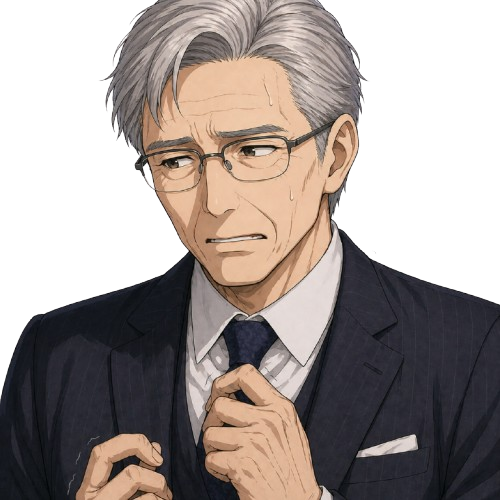
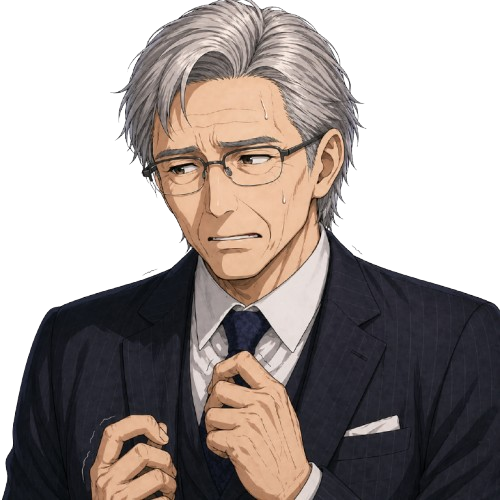
Fix Ch3 generator output, add Ch3 characters to settings, add Ch2 story replay, push chara_01b
- onEventKanteGenTap(): Ch3ジェネレーターがKANTEITA_CHAINアイテムを生成するよう修正（旧: EVENT_CHAINアイテムが出力されていた）
- discoverKanteItem() / showNaviHintForKanteGen() を追加
- handleAnyGenTap() に isKanteGen 分岐を追加
- CHARACTERS配列に第三章7名追加（idx 11-17）
- renderCharacters() に第三章ラベル・ch3Unlocked条件を追加
- CH2_SCENE_LIST定数・renderCh2ReplayList()を追加
- index.html story-ch2-block に replay-wrap を追加
- renderStoryScreen() ch2Complete時にリプレイ表示
- img/Chapter1/Chara/image_merge_order_chara_01b.png（ミユ感動シーン）を追加
- img/Chapter3/chara/image_merge_order_chara_18a.png を更新

diff --git a/game.js b/game.js
@@ -1439,6 +1439,13 @@ function discoverSeizoItem(stage) {
   updateCatalogBadge();
 }
 
+// 第三章マージアイテムを発見（初回のみ）
+function discoverKanteItem(stage) {
+  if (eventState.kanteDiscovered[stage]) return;
+  eventState.kanteDiscovered[stage] = true;
+  updateCatalogBadge();
+}
+
 // ジェネレーターのレベルを発見（初回のみ）
 // genType: 'ch1' / 'ch2', level: 0始まり
 function discoverGen(genType, level) {
@@ -1860,16 +1867,26 @@ const CHARACTERS = [
   { img: 'img/Chapter2/Chara/image_merge_order_chara_08.png',  name: 'ユウ',     age: '10歳', desc: 'リナの子供' },
   { img: 'img/Chapter2/Chara/image_merge_order_chara_09a.png',  name: 'ハルト',   age: '20歳', desc: '大学生' },
   { img: 'img/Chapter2/Chara/image_merge_order_chara_10.png',  name: 'タツオ',   age: '44歳', desc: '警備員' },
+  { img: 'img/Chapter3/chara/image_merge_order_chara_15.png', name: 'フミコ',   age: '71歳', desc: '旅館女将・依頼人' },
+  { img: 'img/Chapter3/chara/image_merge_order_chara_16.png', name: 'コウジ',   age: '47歳', desc: '旅館の跡取り' },
+  { img: 'img/Chapter3/chara/image_merge_order_chara_17.png', name: 'サチコ',   age: '44歳', desc: '故人の長女' },
+  { img: 'img/Chapter3/chara/image_merge_order_chara_18.png', name: 'ノブオ',   age: '67歳', desc: '弁護士' },
+  { img: 'img/Chapter3/chara/image_merge_order_chara_19.png', name: 'ミドリ',   age: '52歳', desc: '旅館の番頭' },
+  { img: 'img/Chapter3/chara/image_merge_order_chara_20.png', name: 'リョウタ', age: '24歳', desc: '故人の孫' },
+  { img: 'img/Chapter3/chara/image_merge_order_chara_21.png', name: 'アキラ',   age: '27歳', desc: '故人の隠し子' },
 ];
 
 function renderCharacters() {
   const list = document.getElementById('characters-list');
   list.innerHTML = '';
   const ch2Unlocked = !!eventState.fireGenUnlocked;
+  const ch3Unlocked = !!eventState.kanteGenUnlocked;
   CHARACTERS.forEach((c, idx) => {
-    // 第二章キャラクター（idx 6〜）は製造機解放後のみ表示
-    if (idx >= 6 && !ch2Unlocked) return;
-    // 第一章・第二章ラベルを挿入
+    // 第二章キャラクター（idx 6〜10）は製造機解放後のみ表示
+    if (idx >= 6 && idx <= 10 && !ch2Unlocked) return;
+    // 第三章キャラクター（idx 11〜）は鑑定台解放後のみ表示
+    if (idx >= 11 && !ch3Unlocked) return;
+    // 章ラベルを挿入
     if (idx === 1) {
       const label = document.createElement('div');
       label.className = 'character-chapter-label';
@@ -1879,6 +1896,11 @@ function renderCharacters() {
       const label = document.createElement('div');
       label.className = 'character-chapter-label';
       label.textContent = '第二章';
+      list.appendChild(label);
+    } else if (idx === 11) {
+      const label = document.createElement('div');
+      label.className = 'character-chapter-label';
+      label.textContent = '第三章';
       list.appendChild(label);
     }
     const card = document.createElement('div');
@@ -4399,6 +4421,31 @@ const CH1_SCENE_LIST = [
   { id: 'scene17', label: 'Ep.16（完結）' },
 ];
 
+// 第二章シーン一覧（c2s01〜c2s20）
+const CH2_SCENE_LIST = [
+  { id: 'c2s01',  label: 'Ep.01' },
+  { id: 'c2s02',  label: 'Ep.02' },
+  { id: 'c2s03',  label: 'Ep.03' },
+  { id: 'c2s04',  label: 'Ep.04' },
+  { id: 'c2s05',  label: 'Ep.05' },
+  { id: 'c2s06',  label: 'Ep.06' },
+  { id: 'c2s07',  label: 'Ep.07' },
+  { id: 'c2s08',  label: 'Ep.08' },
+  { id: 'c2s09',  label: 'Ep.09' },
+  { id: 'c2s10',  label: 'Ep.10' },
+  { id: 'c2s11',  label: 'Ep.11' },
+  { id: 'c2s12',  label: 'Ep.12' },
+  { id: 'c2s13',  label: 'Ep.13' },
+  { id: 'c2s14',  label: 'Ep.14' },
+  { id: 'c2s15',  label: 'Ep.15' },
+  { id: 'c2s15b', label: 'Ep.15（後半）' },
+  { id: 'c2s16',  label: 'Ep.16' },
+  { id: 'c2s17',  label: 'Ep.17' },
+  { id: 'c2s18',  label: 'Ep.18' },
+  { id: 'c2s19',  label: 'Ep.19' },
+  { id: 'c2s20',  label: 'Ep.20（完結）' },
+];
+
 // 第三章シーン一覧（c3s01〜c3s26）
 const CH3_SCENE_LIST = [
   { id: 'c3s01', label: 'Ep.01' },
@@ -4523,6 +4570,8 @@ function renderStoryScreen() {
     if (ch2Complete) {
       ch2NextWrap.classList.add('hidden');
       ch2Complete_.classList.remove('hidden');
+      renderCh2ReplayList();
+      document.getElementById('story-ch2-replay-wrap')?.classList.remove('hidden');
     } else {
       ch2NextWrap.classList.remove('hidden');
       ch2Complete_.classList.add('hidden');
@@ -4594,6 +4643,31 @@ function renderCh1ReplayList() {
     const li = document.createElement('li');
     li.className = 'story-replay-item';
     li.textContent = `第一章 ${s.label}`;
+    li.addEventListener('click', () => {
+      closeStoryScreen();
+      openAdventureScene(s.id);
+    });
+    list.appendChild(li);
+  });
+  if (list.children.length === 0) {
+    const li = document.createElement('li');
+    li.className = 'story-replay-item';
+    li.style.color = '#888';
+    li.textContent = '（まだ読んだストーリーがありません）';
+    list.appendChild(li);
+  }
+}
+
+function renderCh2ReplayList() {
+  const list = document.getElementById('story-ch2-replay-list');
+  if (!list) return;
+  list.innerHTML = '';
+  const seen = state.seenScenes ?? [];
+  CH2_SCENE_LIST.forEach(s => {
+    if (!seen.includes(s.id)) return;
+    const li = document.createElement('li');
+    li.className = 'story-replay-item';
+    li.textContent = `第二章 ${s.label}`;
     li.addEventListener('click', () => {
       closeStoryScreen();
       openAdventureScene(s.id);
@@ -4813,6 +4887,16 @@ function showNaviHintForFireGen(item, persistent = false) {
     : '第二章ジェネレーターをマージしてLvアップ！もう一度タップでアイテム生成。';
   if (!isMax) updateFireNaviLvBtn(sLv);
   _showNaviHintPanel(text, !isMax, persistent);
+}
+
+function showNaviHintForKanteGen(item, persistent = false) {
+  const kLv = item.kanteLevel ?? 0;
+  const maxKLv = KANTEITA_GEN_IMAGES.length - 1;
+  const isMax = kLv >= maxKLv;
+  const text = isMax
+    ? '第三章ジェネレーターは最大Lvです。もう一度タップでアイテムを生成！'
+    : '第三章ジェネレーターをマージしてLvアップ！もう一度タップでアイテム生成。';
+  _showNaviHintPanel(text, false, persistent);
 }
 
 function showNaviHintForItem(item, persistent = false) {
@@ -5659,8 +5743,9 @@ function handleAnyGenTap(i) {
     }
     // 種類違い or レベル違いなら選択切替
     eventState.selectedCell = i;
-    if (isFireGen) showNaviHintForFireGen(item, true);
-    else           showNaviHintForGen(item.genLevel ?? 0, true);
+    if (isFireGen)          showNaviHintForFireGen(item, true);
+    else if (item.isKanteGen) showNaviHintForKanteGen(item, true);
+    else                    showNaviHintForGen(item.genLevel ?? 0, true);
     renderEventBoard();
     return;
   }
@@ -5668,12 +5753,14 @@ function handleAnyGenTap(i) {
   // 2タップ：選択中→生成（選択・ナビヒント維持） / 未選択→選択
   if (eventState.selectedCell === i) {
     // 選択はそのまま・ナビヒントも維持して生成
-    if (isFireGen) onEventFireGenTap(i);
-    else           onEventGenTap(i);
+    if (isFireGen)          onEventFireGenTap(i);
+    else if (item.isKanteGen) onEventKanteGenTap(i);
+    else                    onEventGenTap(i);
   } else {
     eventState.selectedCell = i;
-    if (isFireGen) showNaviHintForFireGen(item, true);
-    else           showNaviHintForGen(item.genLevel ?? 0, true);
+    if (isFireGen)          showNaviHintForFireGen(item, true);
+    else if (item.isKanteGen) showNaviHintForKanteGen(item, true);
+    else                    showNaviHintForGen(item.genLevel ?? 0, true);
     renderEventBoard();
   }
 }
@@ -6336,6 +6423,56 @@ function onEventFireGenTap(tappedCellIdx = null) {
     flyEventItemAnimation(animFrom !== -1 ? animFrom : slot, slot, imgSrc || chain.stages[finalStage - 1]);
   }
   const genShowIdx = animFrom !== -1 ? animFrom : (slot !== -1 ? slot : 0);
+  if (isPower) showPowerOnCell(genShowIdx, 'event-board');
+  else if (isLucky) showLuckyOnCell(genShowIdx, 'event-board');
+
+  renderEventHeader();
+  renderEventBoard();
+  renderEventRequest();
+}
+
+// 第三章ジェネレーター（鑑定台）タップ → KANTEITA_CHAINアイテムを生成
+function onEventKanteGenTap(tappedCellIdx = null) {
+  const powerLv    = eventState.genPowerLevel;
+  const cfg        = POWER_CONFIG[powerLv] ?? POWER_CONFIG[0];
+  const outStage   = cfg.startStage;
+  const energyCost = POWER_COSTS[powerLv] ?? 1;
+
+  if (!debugState.infiniteEnergy && state.energy < energyCost) {
+    showToast(`体力が足りません（必要: ${energyCost}）`);
+    return;
+  }
+
+  const animFrom = tappedCellIdx !== null
+    ? tappedCellIdx
+    : eventState.board.findIndex(c => c && c.isEventGen && c.isKanteGen);
+
+  const emptyIdx = animFrom !== -1 ? findNearestEmptyEventCell(animFrom) : eventState.board.findIndex(c => c === null);
+  if (emptyIdx === -1) { showCellToast('ボードが満杯です', animFrom !== -1 ? animFrom : null, true); return; }
+
+  const chain = CHAINS[KANTEITA_CHAIN_ID];
+  let finalStage = outStage;
+  let isLucky = false, isPower = false;
+
+  const powerStage = rollPower(powerLv, chain.stages.length);
+  if (powerStage !== null) {
+    finalStage = powerStage;
+    isPower = true;
+  } else if (outStage >= 2) {
+    const luckyMult = rollLucky(powerLv);
+    if (luckyMult !== null) {
+      const ls = Math.min(Math.floor(outStage * luckyMult), chain.stages.length);
+      if (ls > outStage) { finalStage = ls; isLucky = true; }
+    }
+  }
+
+  if (!debugState.infiniteEnergy) state.energy -= energyCost;
+  eventState.board[emptyIdx] = { chainId: KANTEITA_CHAIN_ID, stage: finalStage };
+  discoverKanteItem(finalStage);
+
+  const genShowIdx = animFrom !== -1 ? animFrom : emptyIdx;
+  const imgSrc = chain.stageImages?.[finalStage - 1] || chain.stages[finalStage - 1];
+  flyEventItemAnimation(genShowIdx, emptyIdx, imgSrc);
   if (isPower) showPowerOnCell(genShowIdx, 'event-board');
   else if (isLucky) showLuckyOnCell(genShowIdx, 'event-board');
 

diff --git a/index.html b/index.html
@@ -501,6 +501,12 @@
           <div id="story-ch2-cost-label" class="story-cost-label">💰 2,000消費</div>
         </div>
         <div id="story-ch2-complete" class="story-complete-label hidden">✅ 第二章クリア！</div>
+        <div id="story-ch2-replay-wrap" class="hidden">
+          <details class="story-replay-details">
+            <summary>過去のストーリーを見返す</summary>
+            <ul id="story-ch2-replay-list" class="story-replay-list"></ul>
+          </details>
+        </div>
         <div id="story-ch2-locked" class="story-locked-label hidden"></div>
       </div>
       <!-- 第三章（kanteGenUnlocked後に表示） -->
